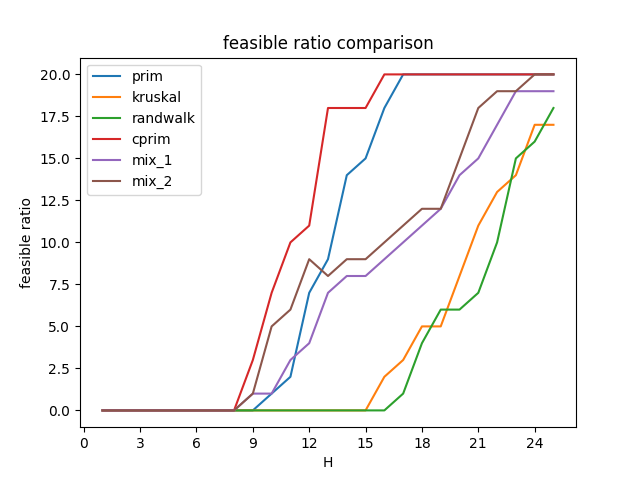
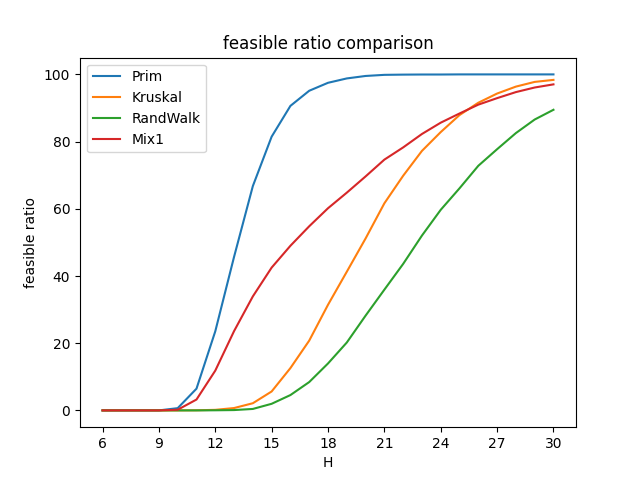
add ept init 1

diff --git a/initalization.py b/initalization.py
@@ -81,13 +81,13 @@ def initialize_pop(init_method, network, problem, indv_temp, size, max_hop, rand
     elif init_method == 'Mix_1':
         ret = []
         ret = kruskal_rst(network, problem, indv_temp, int(size/4), max_hop, random_state)
-        ret.extend(cprim_rst(network, problem, indv_temp, int(size/4), max_hop, random_state))
-        ret.extend(prim_rst(network, problem, indv_temp, int(size/4), max_hop, random_state))
+        # ret.extend(cprim_rst(network, problem, indv_temp, int(size/4), max_hop, random_state))
+        ret.extend(prim_rst(network, problem, indv_temp, int(size/2), max_hop, random_state))
         ret.extend(random_walk_rst(network, problem, indv_temp, int(size/4), max_hop, random_state))
         return ret
     elif init_method == 'Mix_2':
         ret = []
         ret = kruskal_rst(network, problem, indv_temp, int(size/2), max_hop, random_state)
-        ret.extend(cprim_rst(network, problem, indv_temp, int(size/2), max_hop, random_state))
+        ret.extend(prim_rst(network, problem, indv_temp, int(size/2), max_hop, random_state))
         return ret
         

diff --git a/run_ept_init.py b/run_ept_init.py
@@ -31,9 +31,9 @@ CONFIG_FILE = os.path.join(WORKING_DIR, './configs/_configurations.yml')
 DATA_DIR = os.path.join(WORKING_DIR, "./data/small/multi_hop")
 
 INIT_METHODS = ['PrimRST', 'KruskalRST',
-                'RandWalkRST', 'Mix_1', 'Mix_2']
-INIT_METHODS_LEGEND = ['prim', 'kruskal',
-                       'randwalk', 'mix_1', 'Mix_2']
+                'RandWalkRST', 'Mix_1']
+INIT_METHODS_LEGEND = ['Prim', 'Kruskal',
+                       'RandWalk', 'Mix1']
 
 RERUN = False
 TESTING = False
@@ -84,10 +84,11 @@ def run_ept_1(testnames=None):
         ds = []
         for i in range(len(INIT_METHODS)):
             n_hop = 10 if TESTING else 30
+            n_hop_start = 1 if TESTING else 6
             n_seed = 1 if TESTING else 30
             pop_size = 20 if TESTING else 100
             d = []
-            for hop in range(1, n_hop+1):
+            for hop in range(n_hop_start, n_hop+1):
                 sum_valid_solutions = 0
                 for seed in range(1, n_seed+1):
                     solutions = init_population(
